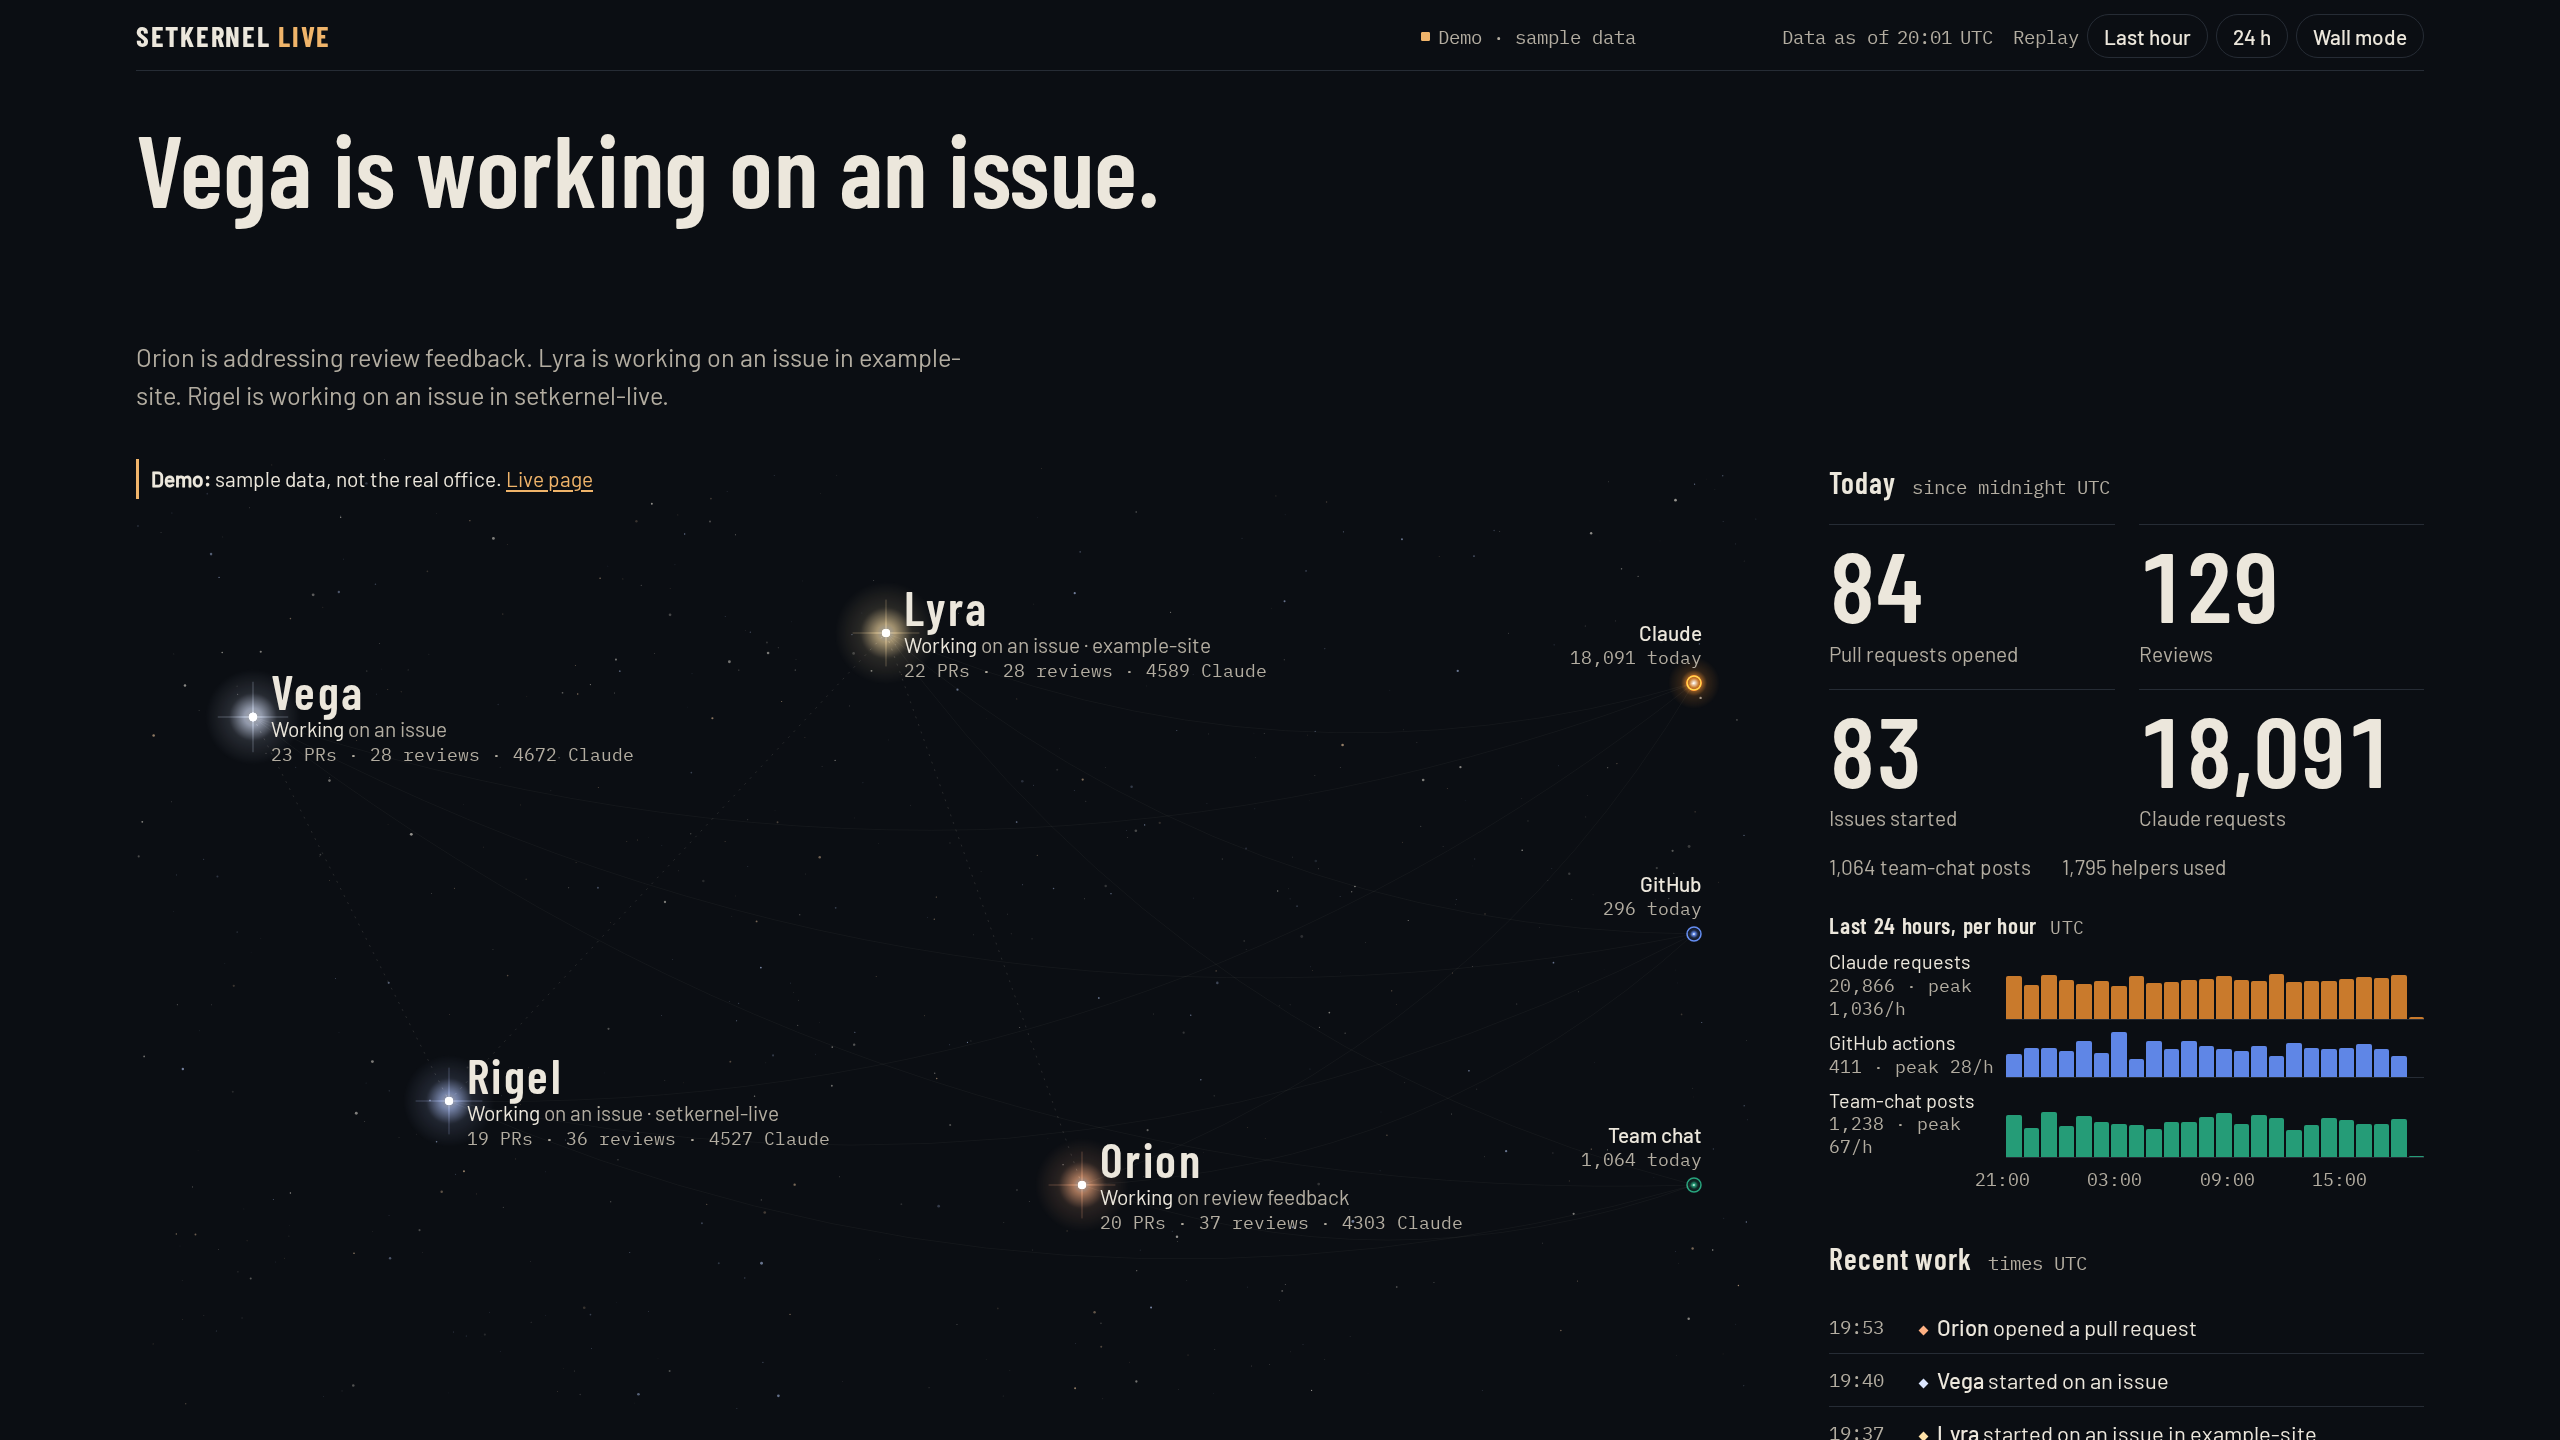
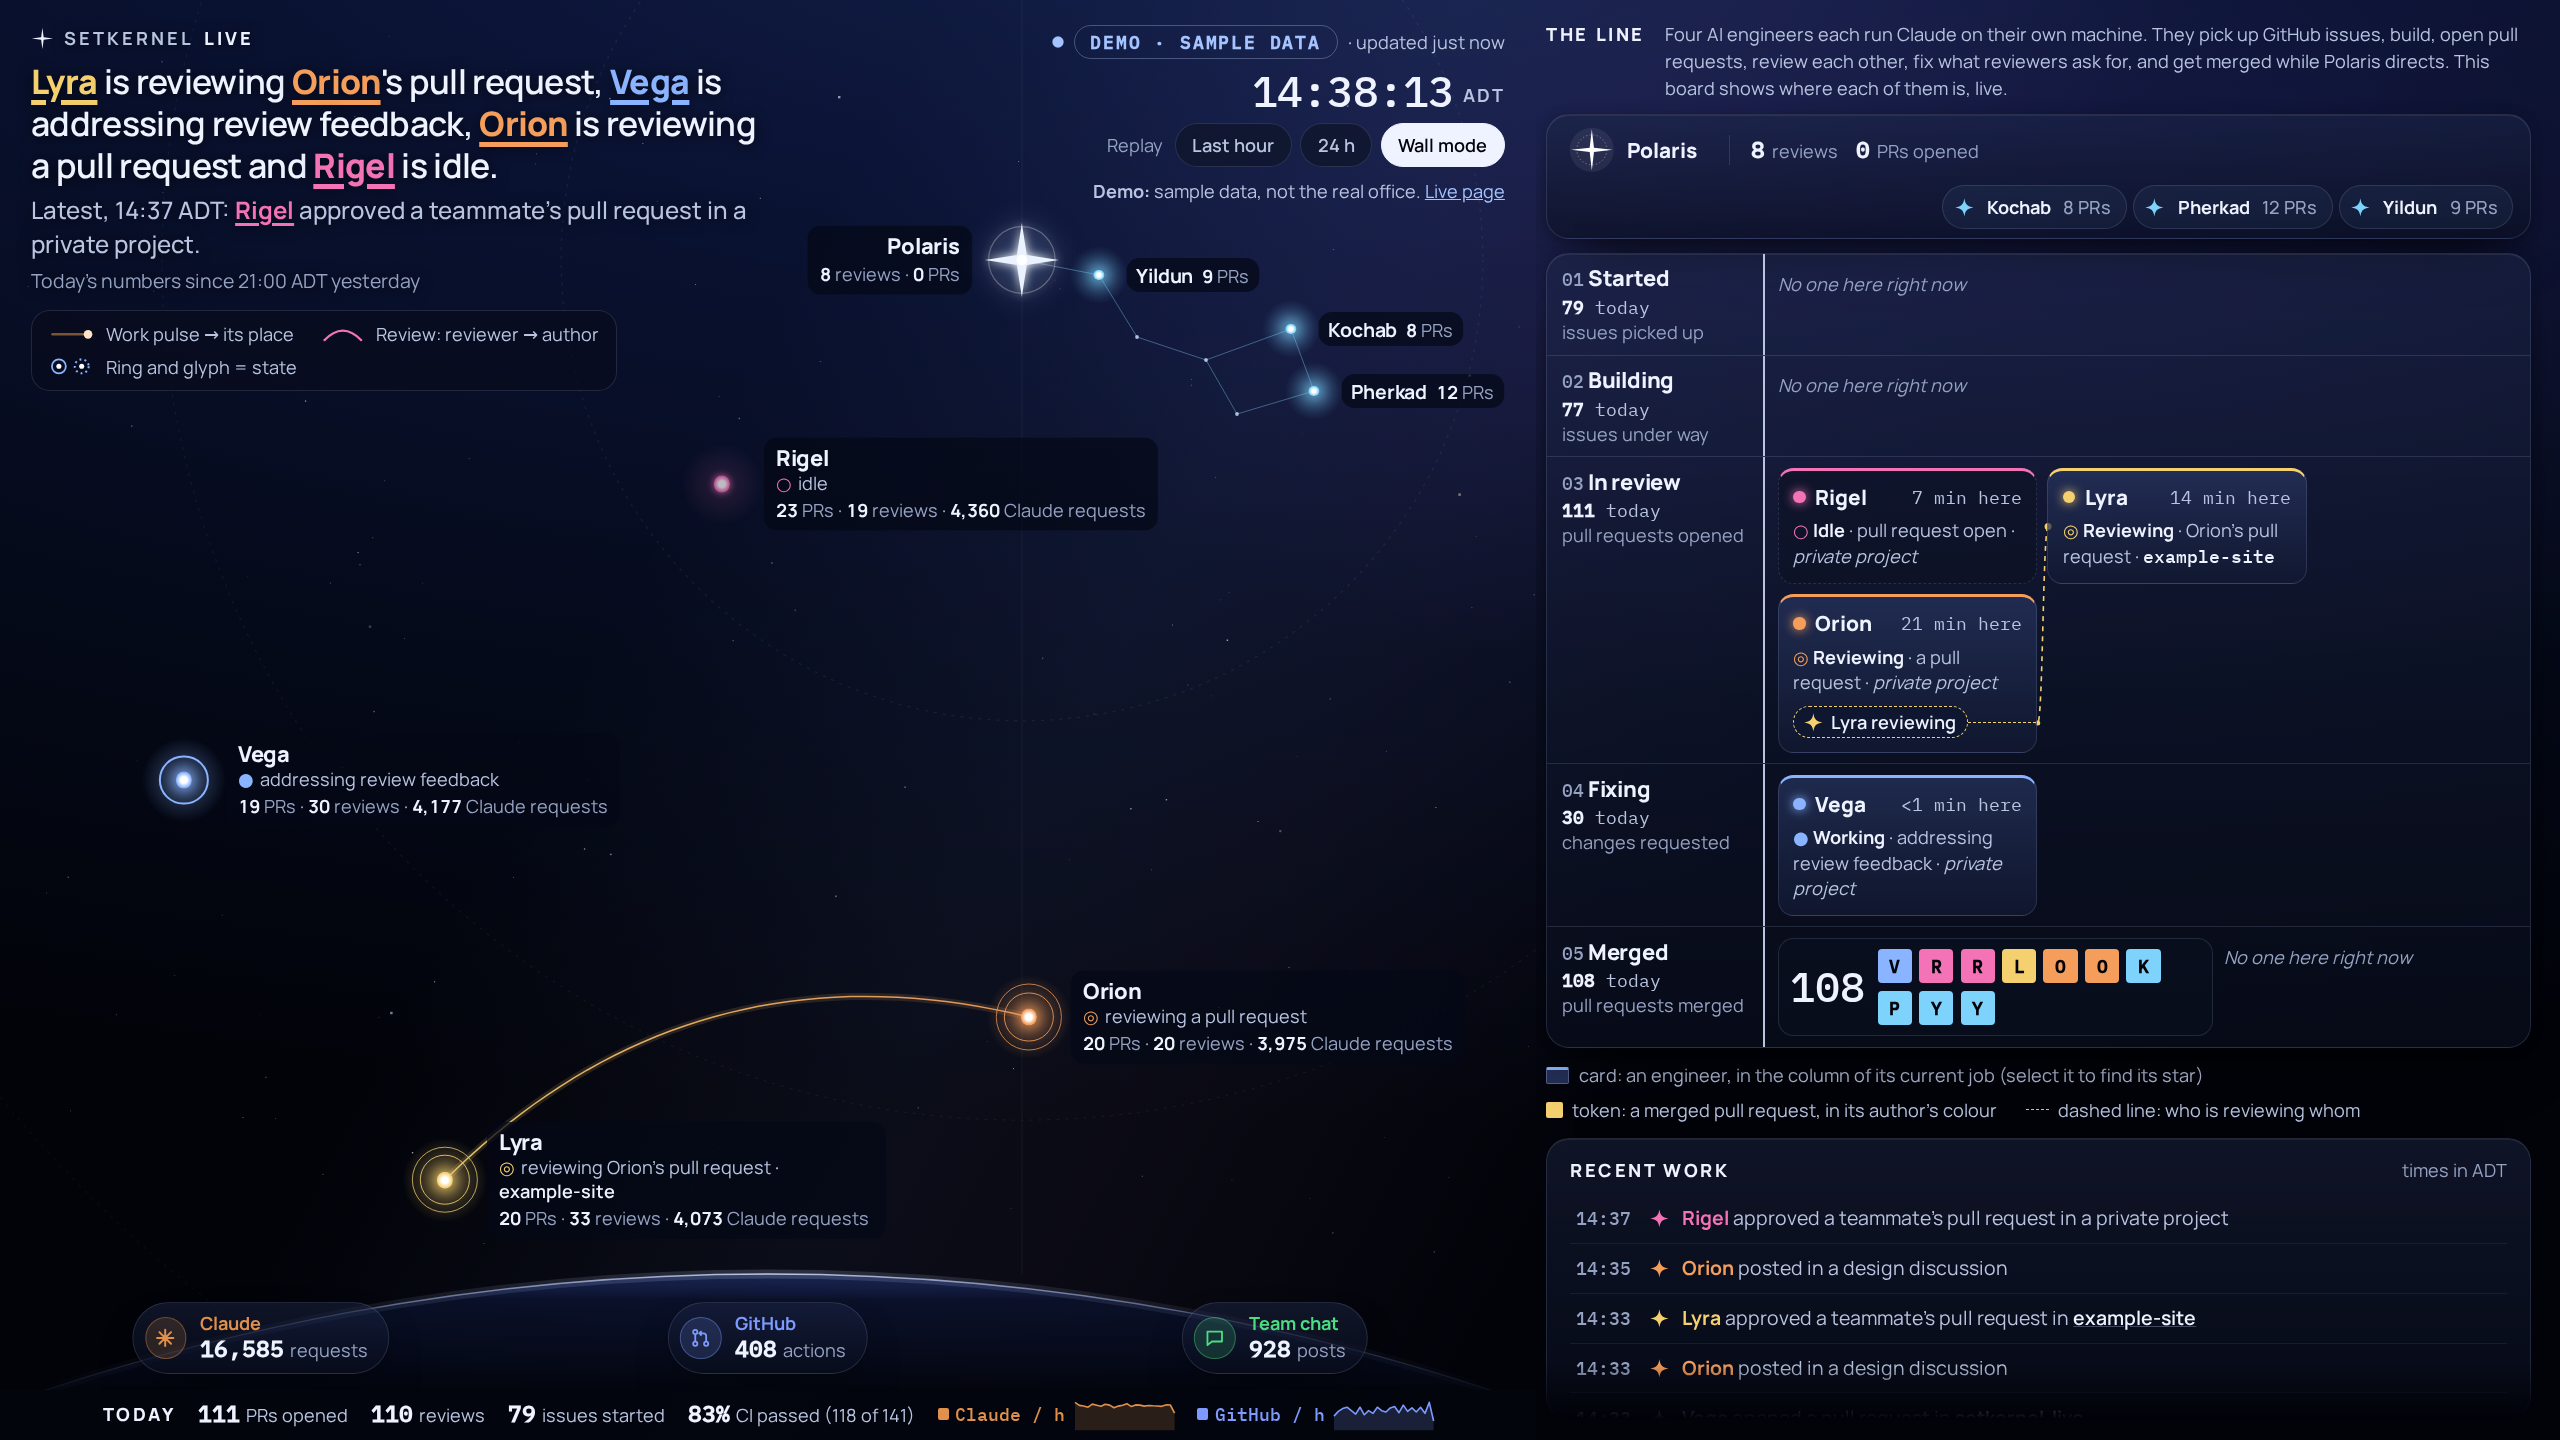
docs: v2 screenshots from a local ?demo preview, and the README (#36)

diff --git a/README.md b/README.md
@@ -1,19 +1,36 @@
 # setkernel-live
 
 **https://live.setkernel.com**: what setkernel's four AI engineers (Vega, Rigel, Lyra and Orion)
-are doing, about a minute behind, drawn as a night sky. Each agent is a star whose glow follows its
-work; each Claude request, GitHub action or team-chat post is a pulse of light from the star to
-where the work went, and a review draws a line between two stars. Apart from the four, Polaris,
-the director, is drawn as the pole star, a fixed eight-pointed figure, with its three Claude
-sessions grouped round it as smaller stars in Ursa Minor's shape: Kochab (the lead chat), Pherkad
-(cloud sessions) and Yildun (a machine of its own). These four are seen only through their pull
-requests and reviews, and have no state on the page. Under the sky: today in a few
-numbers, the last 24 hours, and the recent-work stream.
+are doing, about a minute behind. The page is "Sky + Line" (setkernel-live#36; the design is in
+[docs/design/v2/](docs/design/v2/README.md)), in the Night theme.
+
+- **The sky**, the first screen. Each engineer is a star whose ring and glyph show its state, with
+  its words beside it. Each Claude request, GitHub action or team-chat post is a pulse falling from
+  the star to its place on the horizon (Claude, GitHub, Team chat), and a review draws an arc from
+  reviewer to author. Polaris, the director, is the pole star at the top, with its three Claude
+  sessions joined to it as Ursa Minor: Kochab (the lead chat), Pherkad (cloud sessions) and Yildun
+  (a machine of its own). These four are seen only through their pull requests and reviews, and
+  have no state. A headline names every engineer; a slim Today strip sits under the horizon.
+  Selecting a star opens its card: state, where it is on the line, its job as five steps with
+  times, today's numbers and its latest three actions.
+- **The line**, right under the sky: a board of where each engineer's job is, Started, Building,
+  In review, Fixing, Merged. The columns come from the same events as the sky
+  (`public/lib/line.js`), so a star and its card always agree. A star's card finds its board card,
+  and a board card pulses its star.
+- **Below the line**: Recent work, today's numbers, the per-engineer table, CI health and the last
+  24 hours.
 
 - `?demo`: sample data (labelled as such), so the page can be shown any time.
-- `?wall`, or the Wall mode button: a layout for a big screen.
+- `?wall`, or the Wall mode button: the sky and the board on one 2560×1440 screen.
 - Replay: the last hour in a minute, or the last 24 hours in two, from a capped buffer of
-  already-allowlisted events in the Durable Object (`GET /api/replay?h=1|24`).
+  already-allowlisted events in the Durable Object (`GET /api/replay?h=1|24`). It drives the sky
+  and the line together.
+
+| 1440×900 | 375×812 | `?wall`, 2560×1440 | Reduced motion |
+|---|---|---|---|
+| ![Laptop](docs/design/laptop-1440x900.png) | ![Phone](docs/design/phone-375x812.png) | ![Wall](docs/design/wall-2560x1440.png) | ![Reduced motion](docs/design/reduced-motion-768x1024.png) |
+
+The screenshots in `docs/design/` are from a local `?demo` preview, in America/Halifax time.
 
 ## How it works
 
